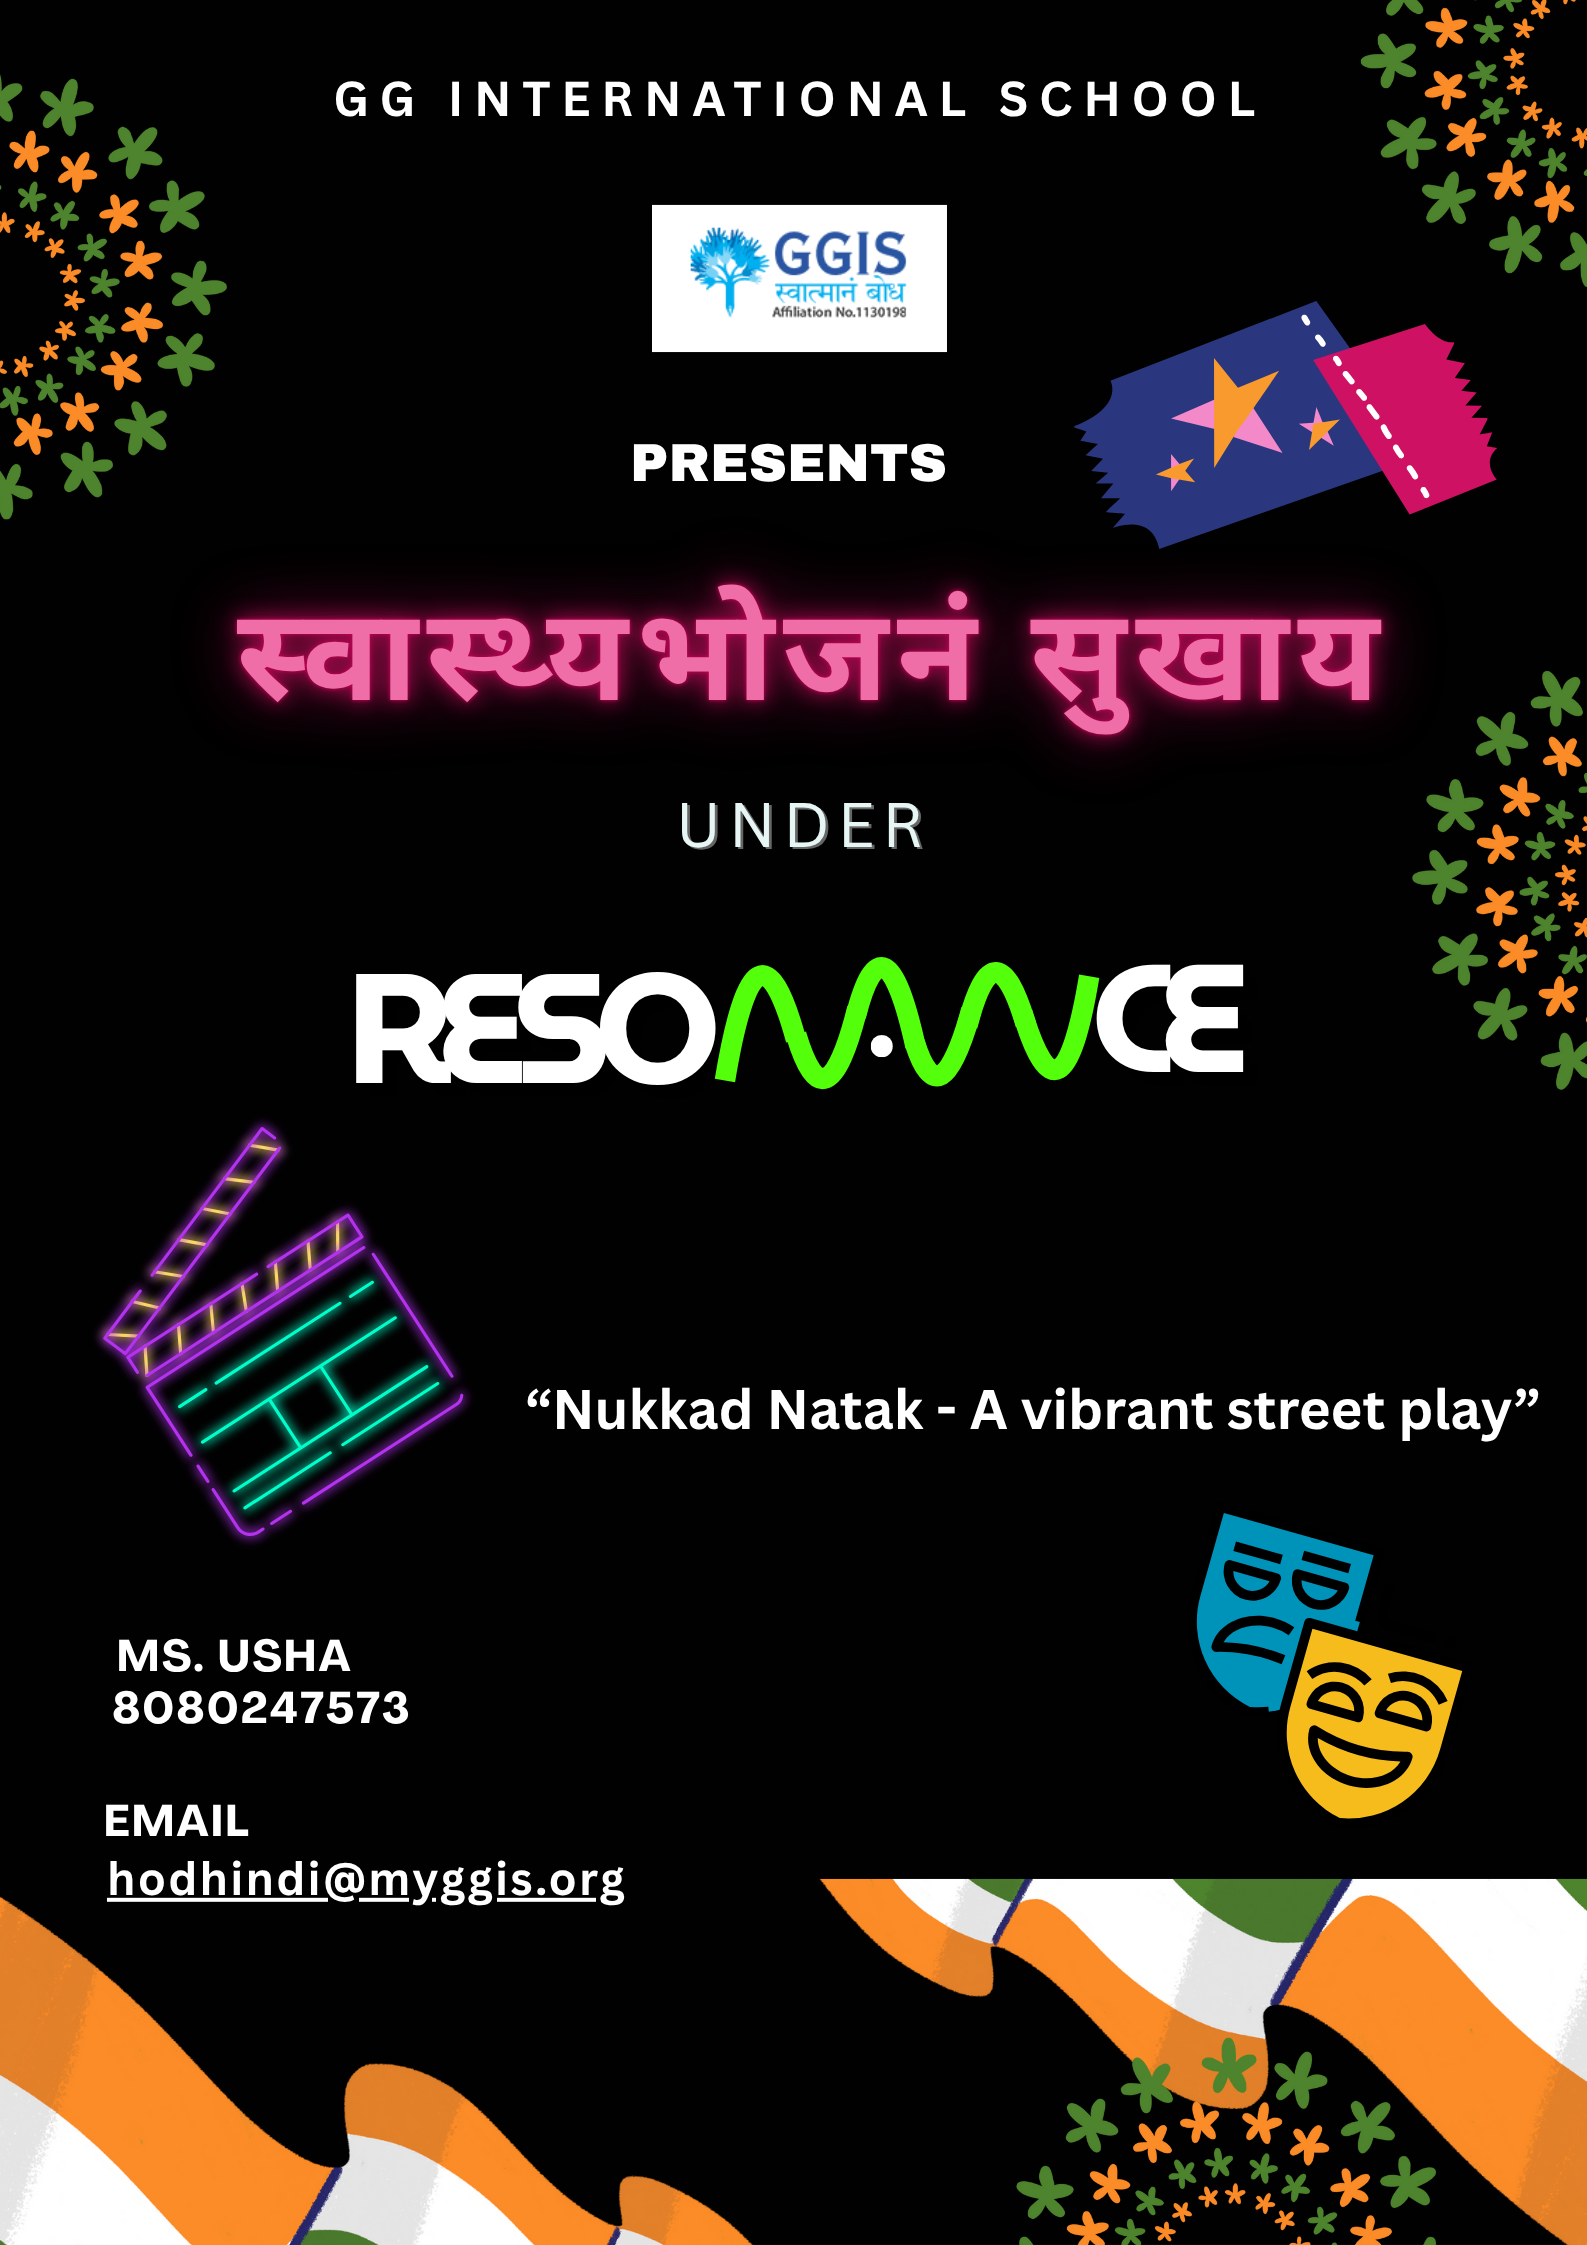
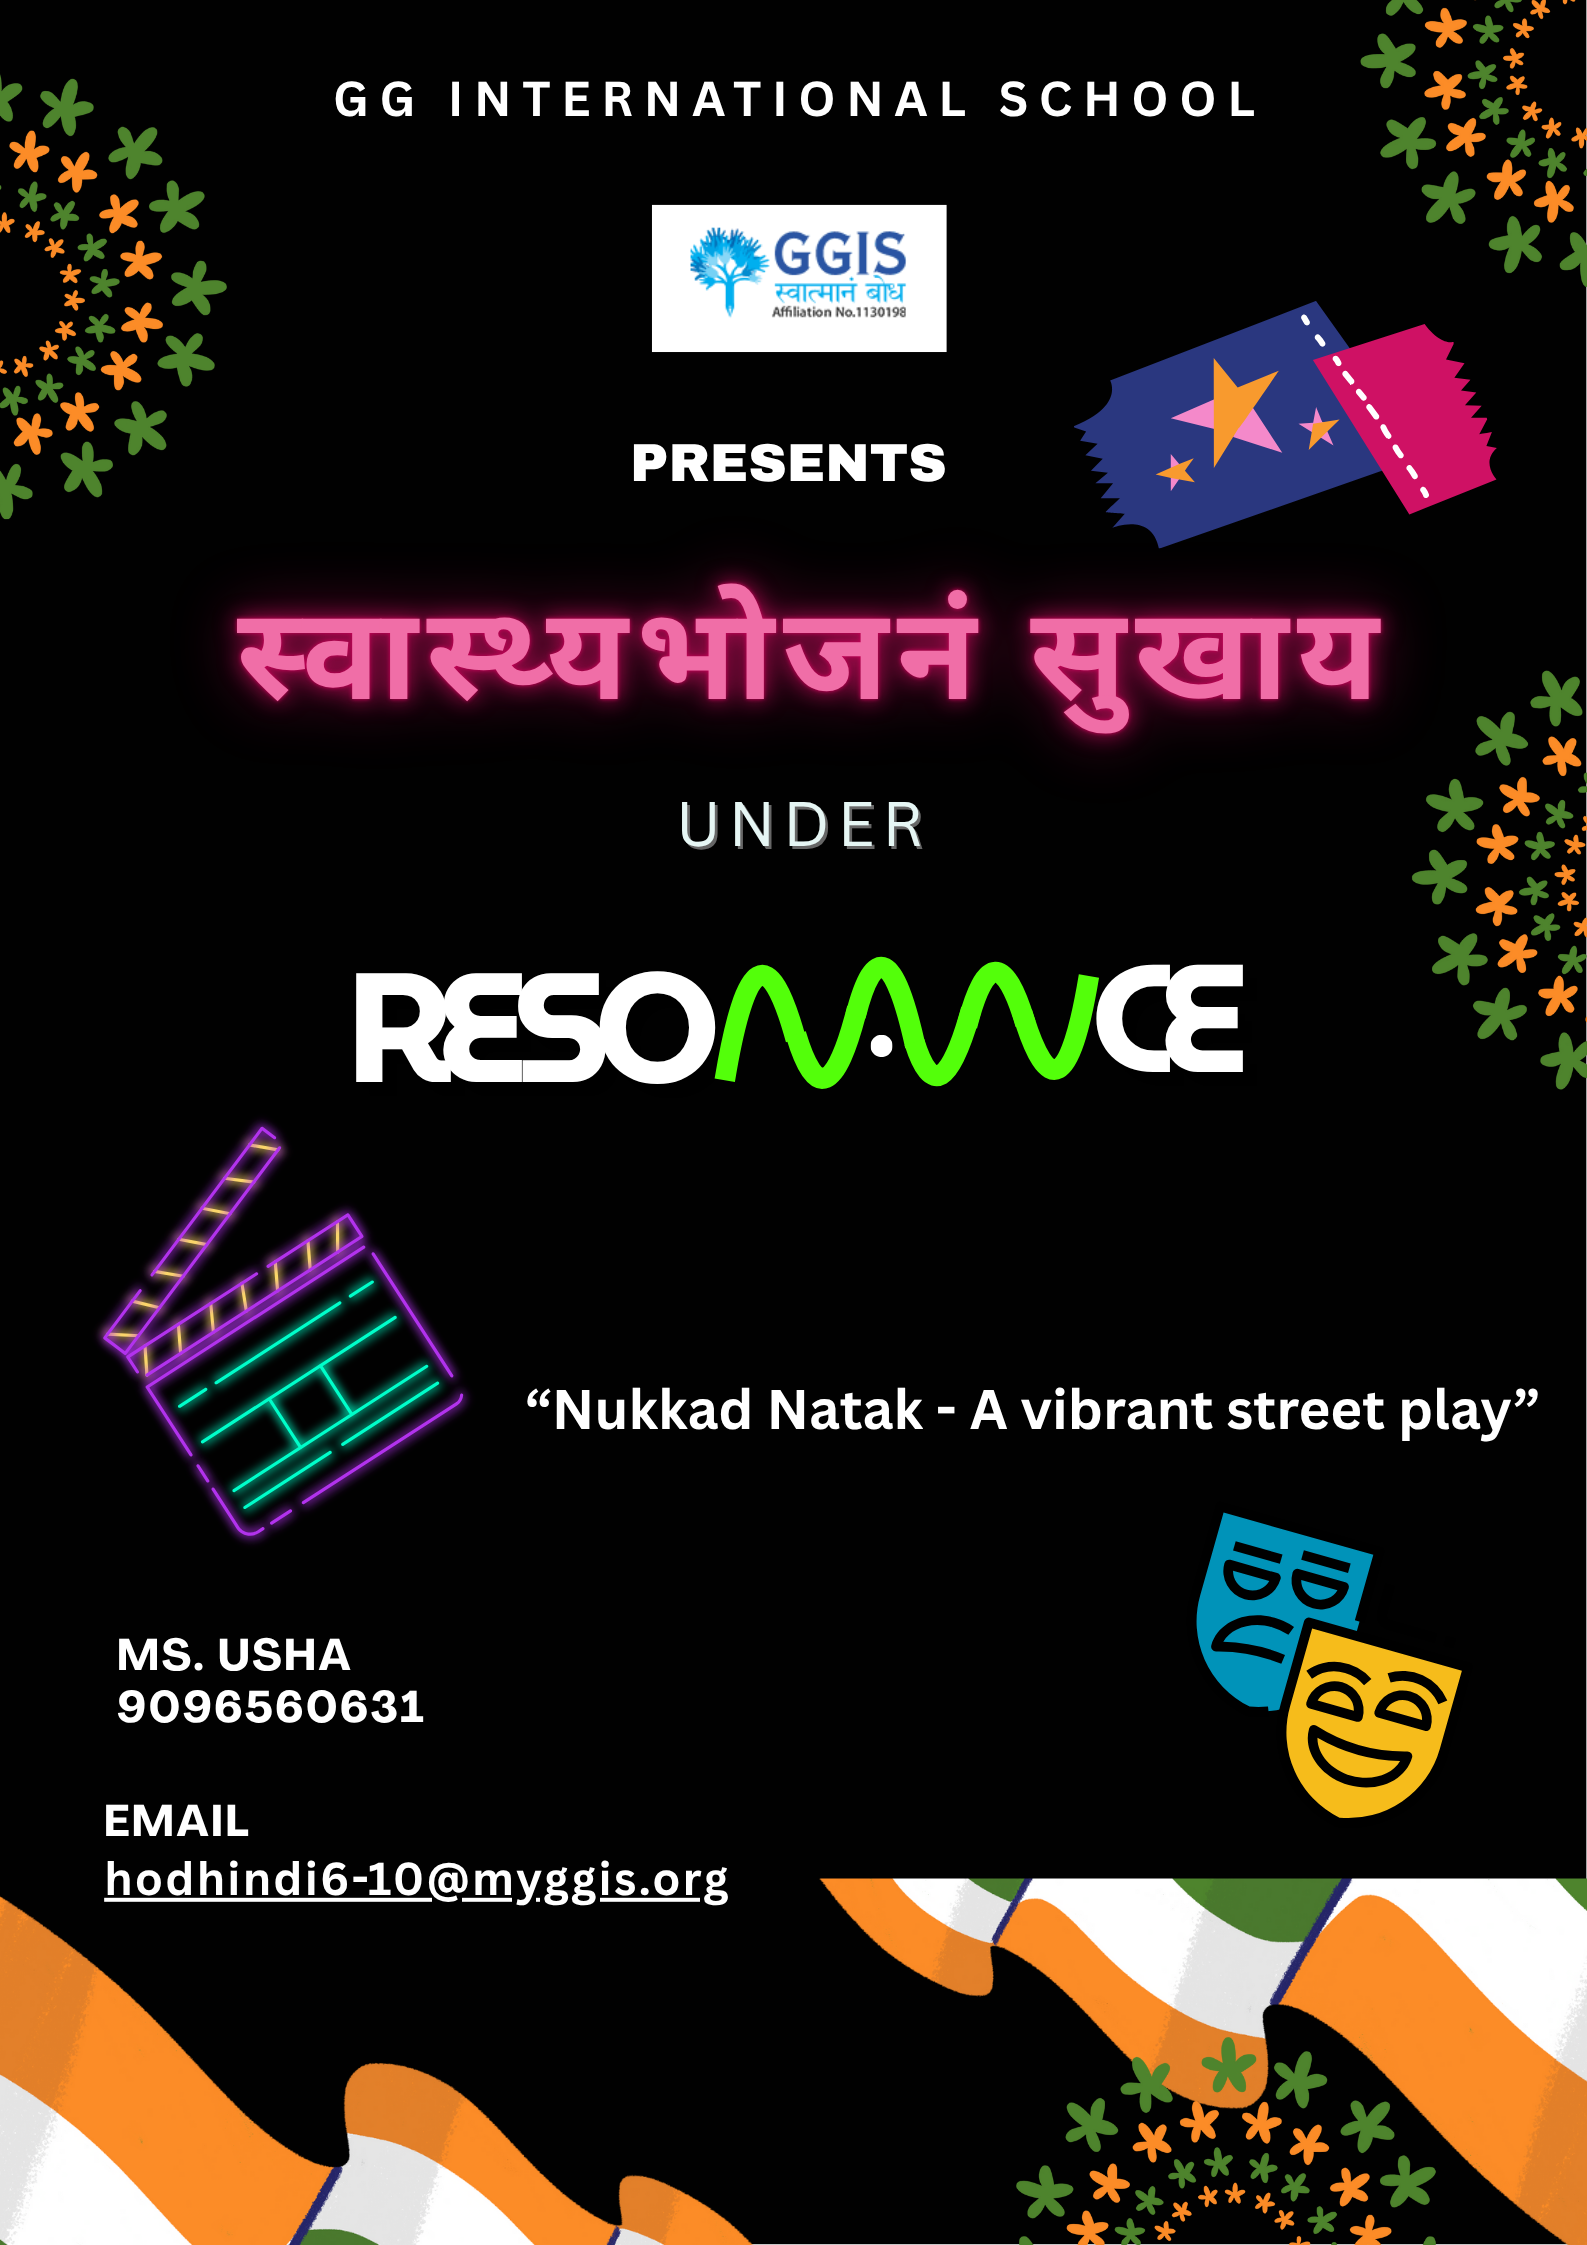
nukkad natak posster and email updated

diff --git a/src/API/card-data.js b/src/API/card-data.js
@@ -197,7 +197,7 @@ const cardData = [
     studn1: "Ms. Usha",
     scontact1: "+91 90965 60631",
     studn2: "Email",
-    scontact2: "hodhindi@myggis.org",
+    scontact2: "hodhindi6-10@myggis.org",
     rubrics: "Relevance to Theme (Healthy Eating), Expression and Dialogue Delivery, Clarity of Message, Creativity and Use of Space, Team Coordination & Impact",
     rules: [
       "⦿ Each team must perform a Nukkad Natak (street play) on the topic of Healthy Eating Habits.",
